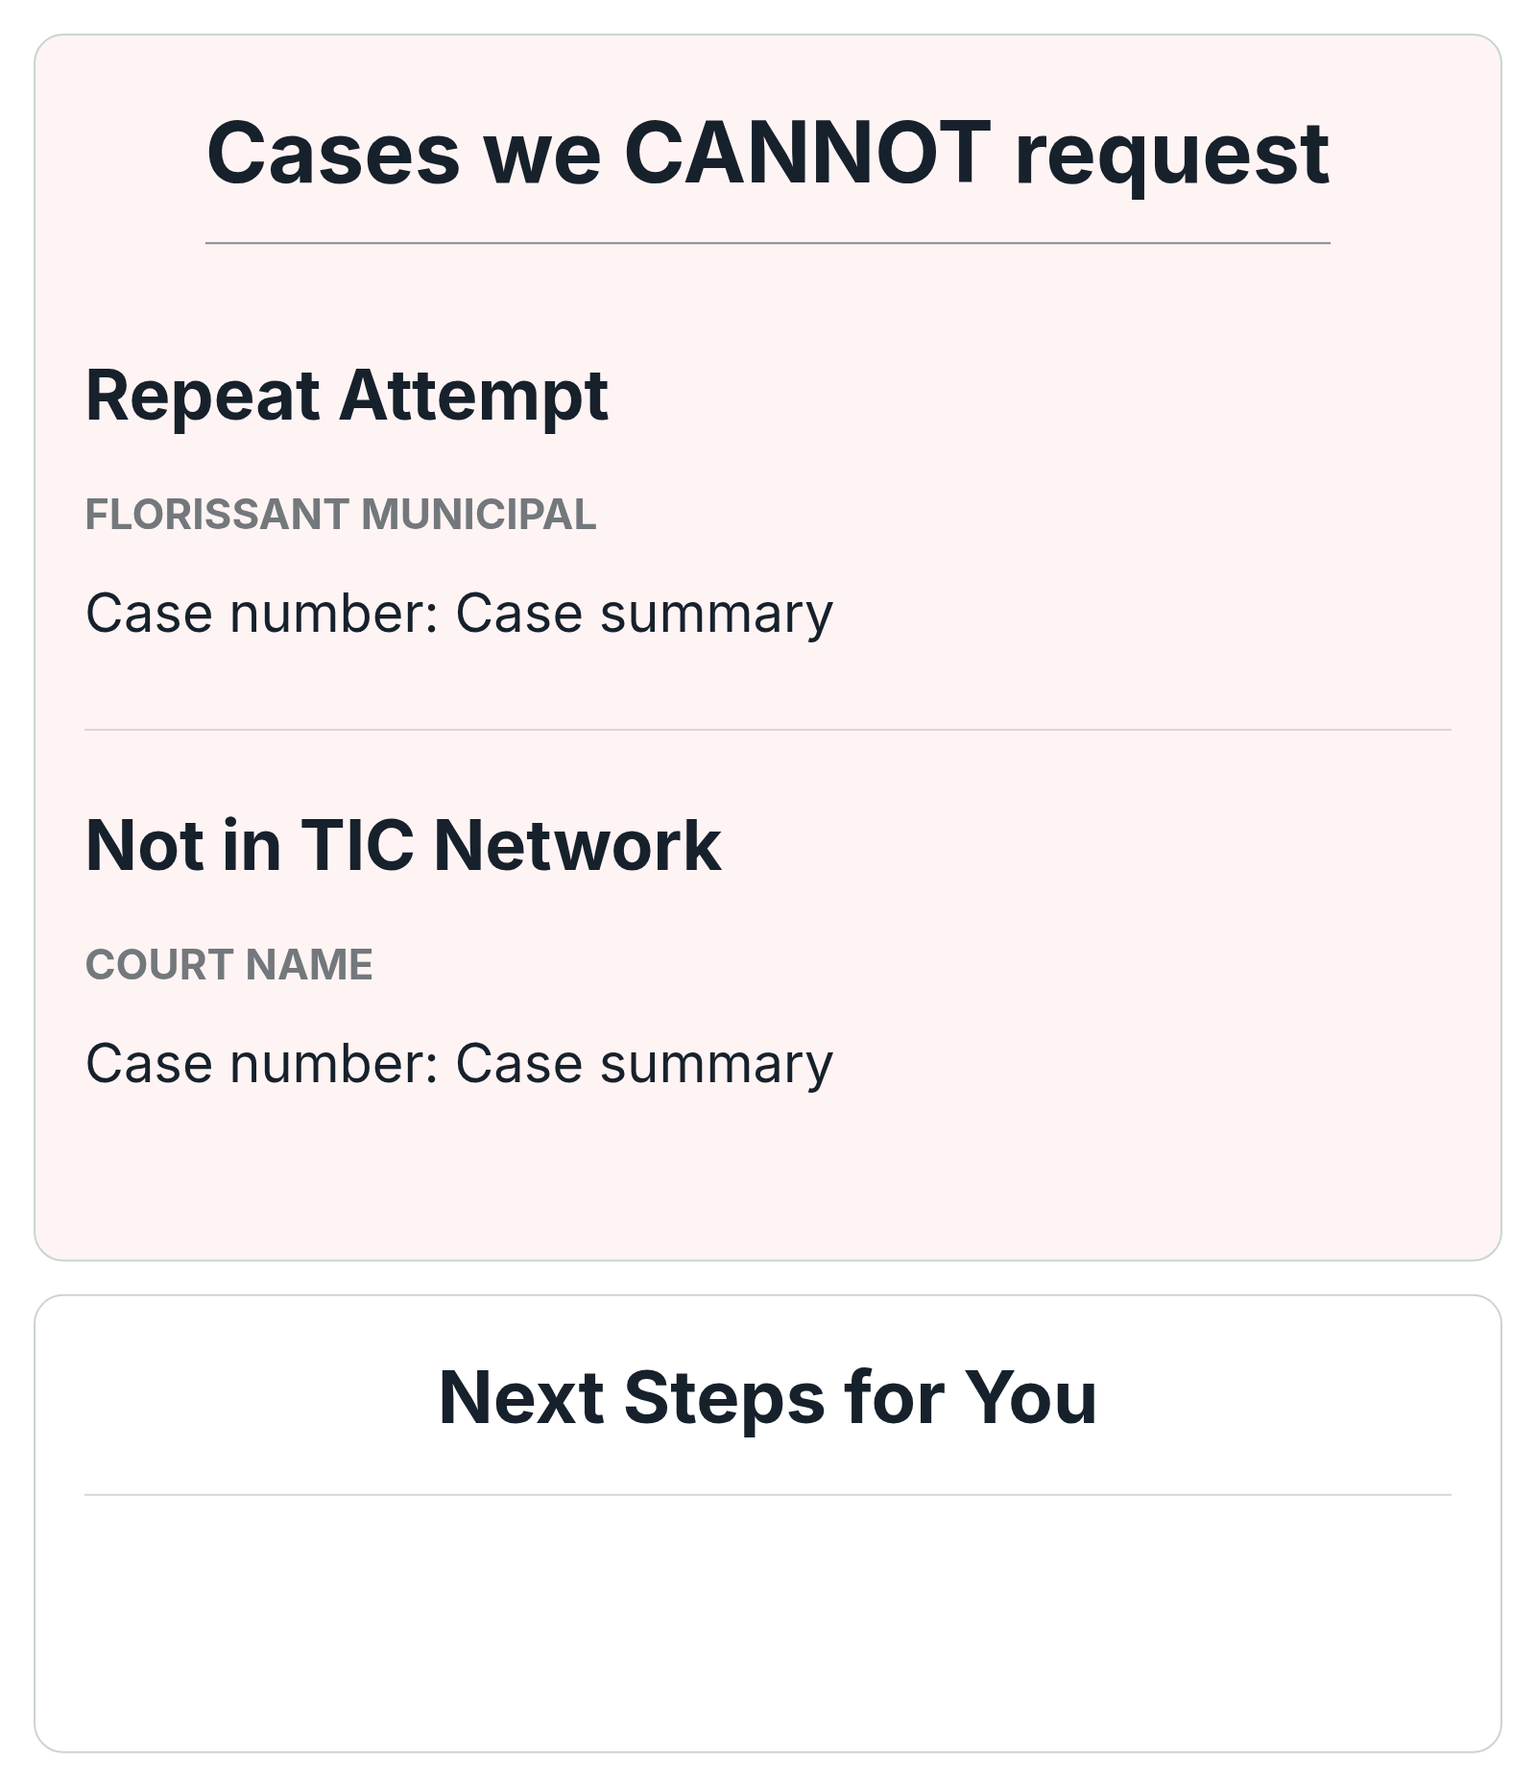
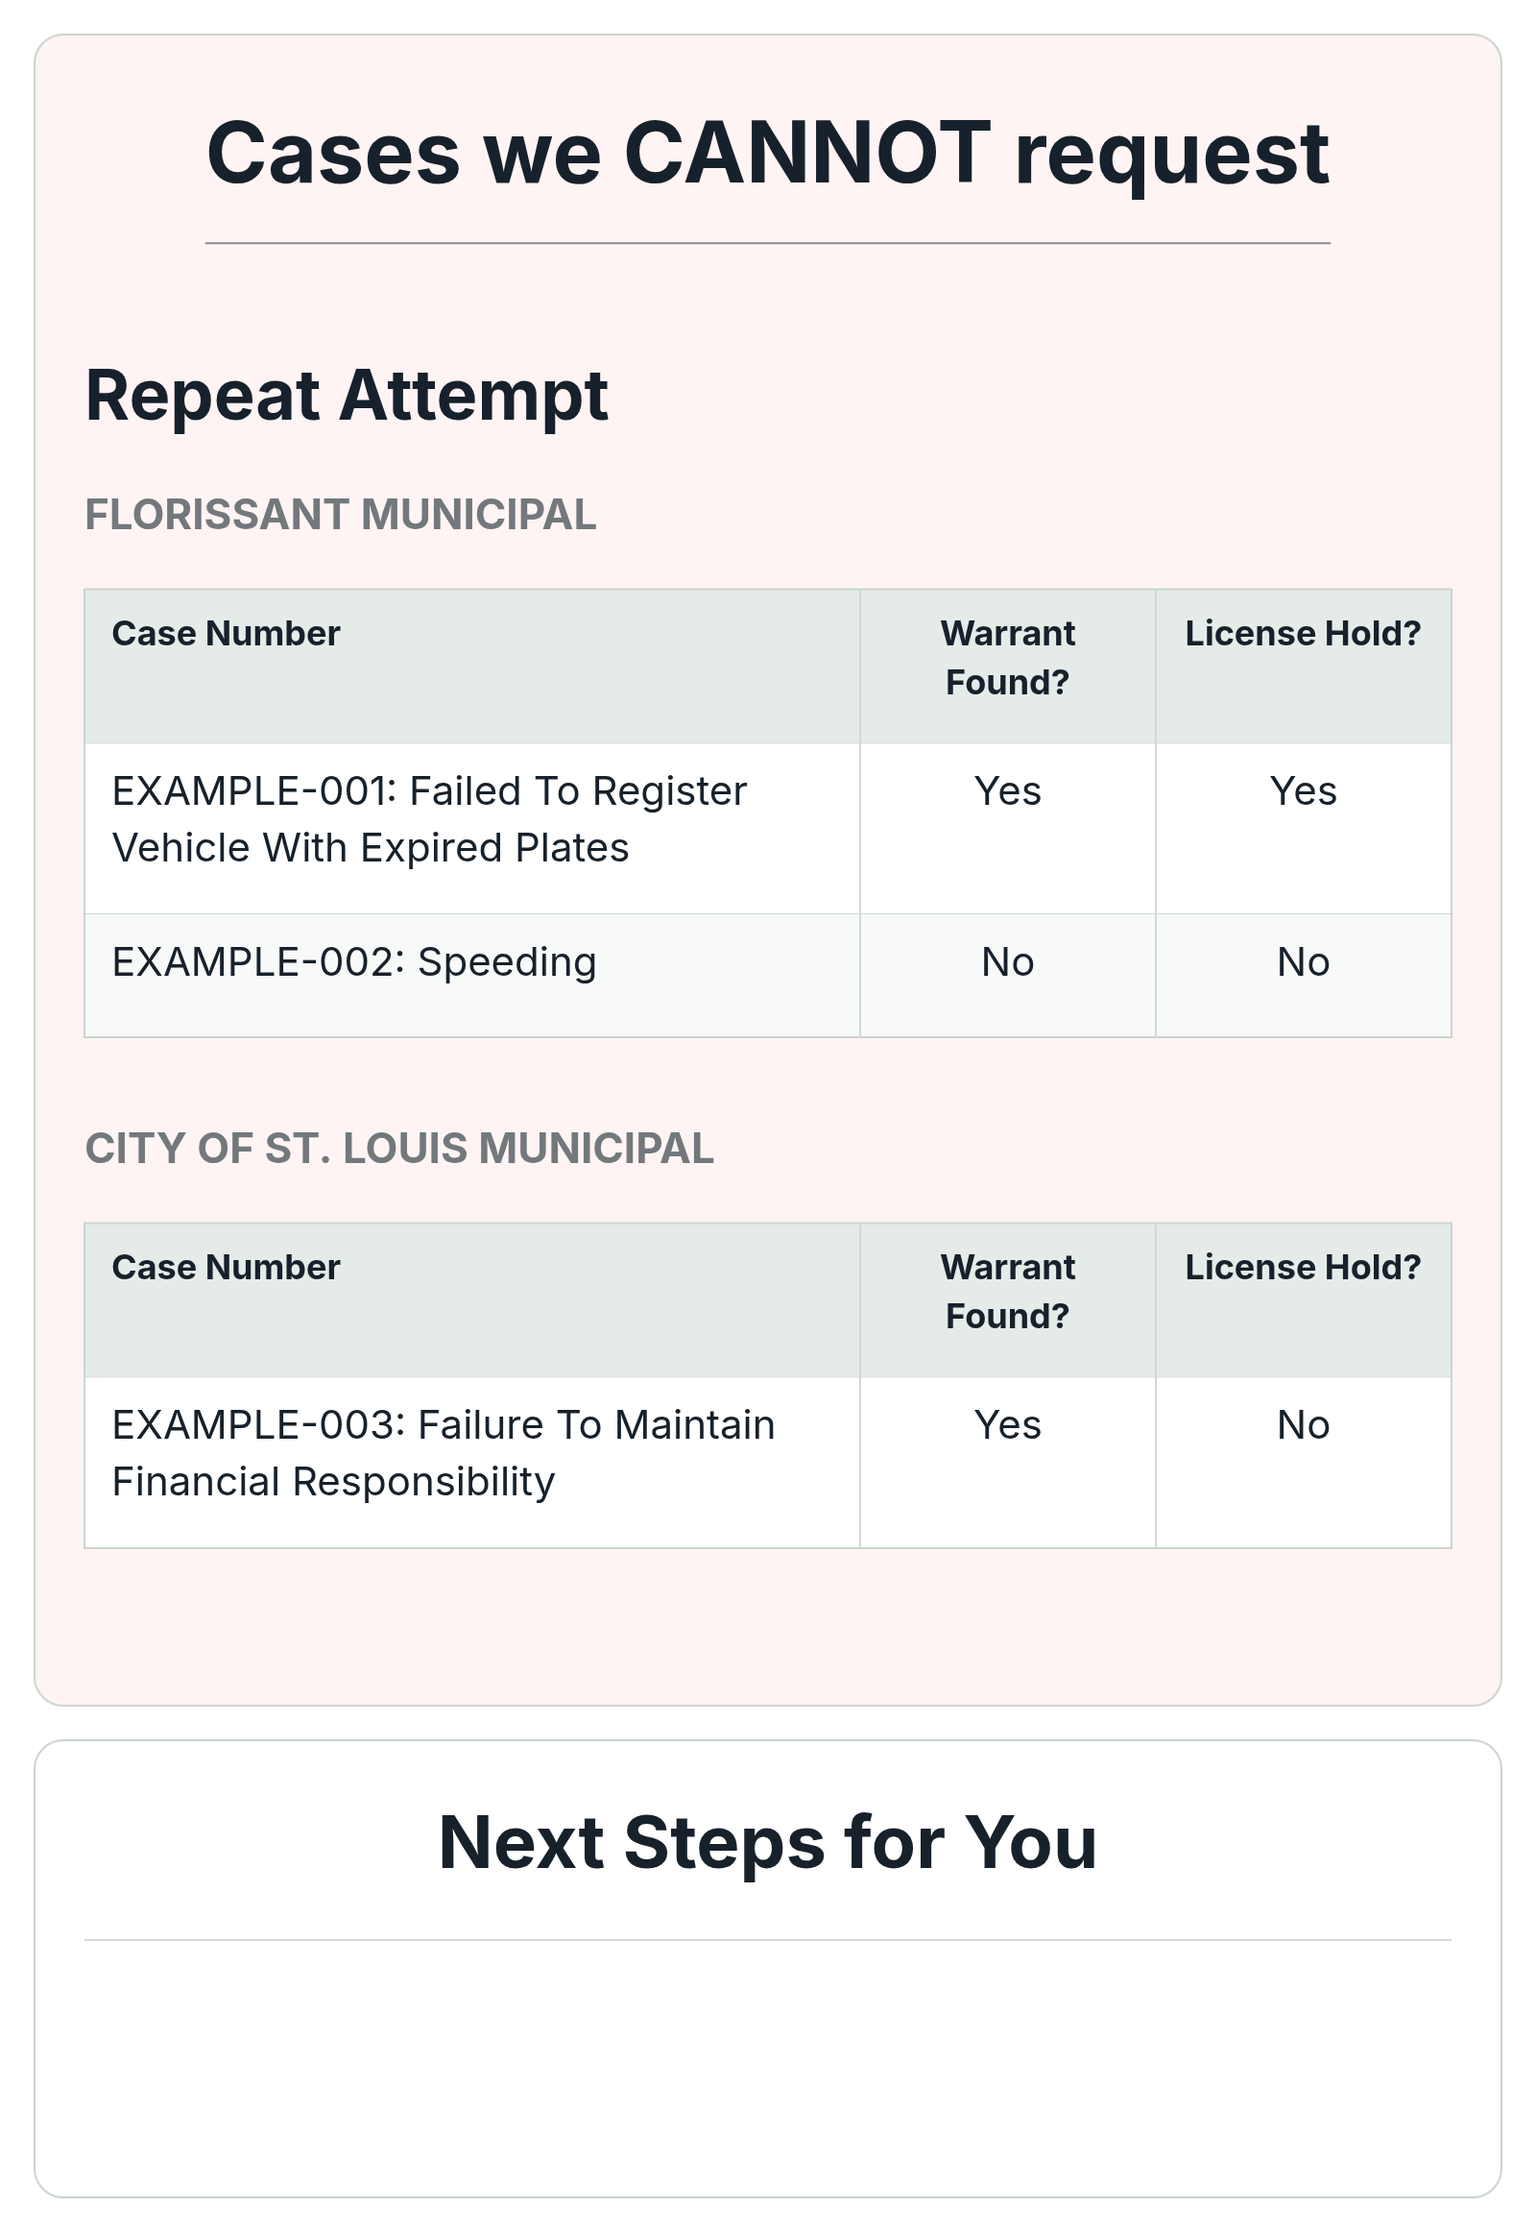
Render infographic cases in court-grouped status tables

diff --git a/src/tampermonkey/17a-constructed-infographics.js b/src/tampermonkey/17a-constructed-infographics.js
@@ -45,21 +45,35 @@ function textBuilderInfographicSources() {
   }
   return sources;
 }
-function textBuilderInfographicTruncate(line) {
-  const colon = line.indexOf(':');
-  if (colon < 0) return line;
-  const tail = line.slice(colon + 1);
-  const status = /- (?:warrant|open \(no warrant found\))/i.exec(tail);
-  if (!status) return line;
-  const charge = tail.slice(0,status.index).trim();
-  const chars = Array.from(charge);
-  if (chars.length <= 12) return line;
-  return `${line.slice(0,colon + 1)} ${chars.slice(0,12).join('')}. . . ${tail.slice(status.index)}`;
-}
-function textBuilderInfographicRows(text,truncate) {
+function textBuilderInfographicRows(text) {
   return String(text || '').split(/\r?\n/).map(line => line.trim()).filter(line => line && !/^(?:-\s*){3,}$/.test(line))
-    .map(line => ({text:truncate ? textBuilderInfographicTruncate(line) : line,
-      court:!line.includes(':') && /(?:\bmunicipal\b|\bcircuit\b|\bcourt\b|\(\d{3}\)\s*\d{3}[- ]\d{4})/i.test(line)}));
+    .map(line => ({text:line,court:!line.includes(':') && /(?:\bmunicipal\b|\bcircuit\b|\bcourt\b|\(\d{3}\)\s*\d{3}[- ]\d{4})/i.test(line)}));
+}
+function textBuilderInfographicCaseEntry(line) {
+  const text = String(line || '').replace(/^\s*[-•]\s*/,'').trim();
+  if (!text.includes(':')) return null;
+  const open = /-\s*open\s*\(no warrant found\)/i.test(text);
+  const warrant = /-\s*warrant\b/i.test(text);
+  const status = /\s*-\s*(?:open\s*\(no warrant found\)|warrant\b)/i.exec(text);
+  let label = status ? text.slice(0,status.index) : text;
+  label = label.replace(/\s*(?:[-–—,;]\s*)?hold placed on license\b.*$/i,'').trim();
+  return {label,warrant:open ? 'No' : warrant ? 'Yes' : '—',license:/hold placed on license/i.test(text) ? 'Yes' : 'No'};
+}
+function textBuilderInfographicCourtGroups(text) {
+  const groups = [];
+  let current = null;
+  for (const row of textBuilderInfographicRows(text)) {
+    if (row.court) {
+      const court = row.text.toUpperCase();
+      current = groups.find(group => group.court === court);
+      if (!current) {current = {court,entries:[],notes:[]};groups.push(current);}
+    } else {
+      if (!current) {current = {court:'',entries:[],notes:[]};groups.push(current);}
+      const entry = textBuilderInfographicCaseEntry(row.text);
+      if (entry) current.entries.push(entry); else current.notes.push(row.text);
+    }
+  }
+  return groups;
 }
 // SVG presentation attributes lose to host-page CSS. Lock typography on text,
 // tspans and inline entry fields so preview measurements match Canvas exports.
@@ -92,7 +106,7 @@ function textBuilderInfographicLines(box,measure) {
 }
 function textBuilderInfographicBoxHeight(box,measure) {return Math.max(1,textBuilderInfographicLines(box,measure).length) * box.size * 1.4;}
 function textBuilderInfographicModel(source,measure) {
-  const model = {type:source.type,width:800,height:1000,caseBottom:620,boxes:[],sectionRules:[]};
+  const model = {type:source.type,width:800,height:1000,caseBottom:620,boxes:[],sectionRules:[],tables:[]};
   let y = 60;
   const add = (text,size,bold,kind='case') => {
     const width = kind === 'step' ? 712 : Math.min(712,Math.max(160,measure(text,size,bold)+8));
@@ -106,14 +120,16 @@ function textBuilderInfographicModel(source,measure) {
   for (const [index,section] of source.sections.entries()) {
     if (index > 0) {model.sectionRules.push(y);y += 44;}
     if (section.title) add(section.title,36,true,'subheading');
-    const rows = textBuilderInfographicRows(section.text,source.type === 'ineligible');
-    const showCourts = rows.filter(row => row.court).length > 1;
-    let courtCount = 0;
-    for (const row of rows) {
-      // A single court needs no subdivision; multiple courts keep their Summary headings.
-      if (row.court && !showCourts && source.type === 'eligible') continue;
-      if (source.type === 'eligible' && row.court && courtCount++ > 0) {model.sectionRules.push(y);y += 44;}
-      add(row.court ? row.text.toUpperCase() : row.text,row.court ? 22 : 28,row.court,row.court ? 'court' : 'case');
+    for (const [groupIndex,group] of textBuilderInfographicCourtGroups(section.text).entries()) {
+      if (groupIndex > 0) y += 24;
+      if (group.court) add(group.court,22,true,'court');
+      for (const note of group.notes) add(note,24,false);
+      if (group.entries.length) {
+        const table = textBuilderInfographicTable(group.entries,y,measure,model.boxes.length);
+        model.tables.push(table);
+        model.boxes.push(...table.boxes);
+        y += table.height + 24;
+      }
     }
     y += 16;
   }
@@ -123,6 +139,44 @@ function textBuilderInfographicModel(source,measure) {
   add('',23,false,'step');
   textBuilderInfographicReflow(model,measure);
   return model;
+}
+function textBuilderInfographicTable(entries,y,measure,idStart) {
+  const widths = [404,154,154];
+  const table = {x:44,y,width:712,height:0,rows:[],boxes:[],widths};
+  const rows = [['Case Number','Warrant Found?','License Hold?'],...entries.map(entry => [entry.label,entry.warrant,entry.license])];
+  let rowY = y;
+  for (const [index,values] of rows.entries()) {
+    const header = index === 0;
+    let x = 44;
+    const cells = values.map((text,column) => {
+      const box = {id:`box-${idStart+table.boxes.length+column}`,text,x:x+14,y:rowY+15,width:widths[column]-28,size:header ? 18 : 21,bold:header,kind:header ? 'tableHeader' : 'tableCell',center:column>0};
+      x += widths[column];return box;
+    });
+    const height = Math.max(header ? 60 : 64,...cells.map(box => textBuilderInfographicBoxHeight(box,measure)+30));
+    table.rows.push({y:rowY,height,header,index});table.boxes.push(...cells);rowY += height;
+  }
+  table.height = rowY-y;
+  return table;
+}
+function textBuilderInfographicTableSvg(model) {
+  return (model.tables || []).map(table => {
+    const rows = table.rows.map(row => `<rect x="${table.x}" y="${row.y}" width="${table.width}" height="${row.height}" fill="${row.header ? '#e5ebe8' : row.index%2 ? '#ffffff' : '#f8faf9'}"/><line x1="${table.x}" x2="${table.x+table.width}" y1="${row.y+row.height}" y2="${row.y+row.height}" stroke="#d1d9d5"/>`).join('');
+    let x = table.x;
+    const columns = table.widths.slice(0,-1).map(width => {x+=width;return `<line x1="${x}" x2="${x}" y1="${table.y}" y2="${table.y+table.height}" stroke="#d1d9d5"/>`;}).join('');
+    return `<g data-info-table="true" role="table" aria-label="Cases by court">${rows}${columns}<rect x="${table.x}" y="${table.y}" width="${table.width}" height="${table.height}" fill="none" stroke="#cbd5ce"/></g>`;
+  }).join('');
+}
+function textBuilderInfographicDrawTables(ctx,model) {
+  for (const table of model.tables || []) {
+    ctx.lineWidth=1;
+    for (const row of table.rows) {
+      ctx.fillStyle=row.header ? '#e5ebe8' : row.index%2 ? '#ffffff' : '#f8faf9';ctx.fillRect(table.x,row.y,table.width,row.height);
+      ctx.strokeStyle='#d1d9d5';ctx.beginPath();ctx.moveTo(table.x,row.y+row.height);ctx.lineTo(table.x+table.width,row.y+row.height);ctx.stroke();
+    }
+    let x=table.x;
+    for (const width of table.widths.slice(0,-1)) {x+=width;ctx.beginPath();ctx.moveTo(x,table.y);ctx.lineTo(x,table.y+table.height);ctx.stroke();}
+    ctx.strokeStyle='#cbd5ce';ctx.strokeRect(table.x,table.y,table.width,table.height);
+  }
 }
 function textBuilderInfographicReflow(model,measure) {
   let y = model.caseBottom + 148;
@@ -167,12 +221,13 @@ function textBuilderInfographicSvg(model,editing=true) {
       const fieldHeight = Math.max(80,height);
       return `<foreignObject x="${box.x}" y="${box.y}" width="${box.width}" height="${fieldHeight}"><textarea xmlns="http://www.w3.org/1999/xhtml" class="moInfographicStep" data-info-step="${esc(box.id)}" aria-label="Next step ${model.boxes.filter(b => b.kind === 'step').indexOf(box)+1}" placeholder="Enter next step" style="${textBuilderInfographicFontStyle(box.size,false)}">${esc(box.text)}</textarea></foreignObject>`;
     }
-    const centered = ['heading','stepsHeading'].includes(box.kind);
+    const centered = box.center || ['heading','stepsHeading'].includes(box.kind);
+    const centerX = box.center ? box.width/2 : model.width/2-box.x;
     const style = textBuilderInfographicFontStyle(box.size,box.bold);
     return `<g transform="translate(${box.x},${box.y})">
-      <text style="${style}" font-family="TICInfographicInter, sans-serif" font-size="${box.size}" font-weight="${box.bold ? '700' : '400'}" fill="${box.kind === 'court' ? '#73787c' : '#17212b'}" ${centered ? 'text-anchor="middle"' : ''} dominant-baseline="text-before-edge">${lines.map((line,i) => `<tspan style="${style}" x="${centered ? model.width/2-box.x : 0}" y="${i*box.size*1.4}">${esc(line)}</tspan>`).join('')}</text></g>`;
+      <text aria-label="${esc(box.text)}" style="${style}" font-family="TICInfographicInter, sans-serif" font-size="${box.size}" font-weight="${box.bold ? '700' : '400'}" fill="${box.kind === 'court' ? '#73787c' : '#17212b'}" ${centered ? 'text-anchor="middle"' : ''} dominant-baseline="text-before-edge">${lines.map((line,i) => `<tspan style="${style}" x="${centered ? centerX : 0}" y="${i*box.size*1.4}">${esc(line)}</tspan>`).join('')}</text></g>`;
   }).join('');
-  return `<svg xmlns="http://www.w3.org/2000/svg" viewBox="0 0 ${model.width} ${model.height}" class="moInfographicSvg" aria-label="${model.type === 'eligible' ? 'Eligible' : 'Ineligible'} Constructed Infographic"><rect width="800" height="${model.height}" fill="white"/>${panel(18,model.caseBottom-18,model.type === 'eligible' ? '#eff9ef' : '#fff4f4')}${panel(stepsY,model.height-stepsY-18,'#ffffff')}${rules}${boxes}</svg>`;
+  return `<svg xmlns="http://www.w3.org/2000/svg" viewBox="0 0 ${model.width} ${model.height}" class="moInfographicSvg" aria-label="${model.type === 'eligible' ? 'Eligible' : 'Ineligible'} Constructed Infographic"><rect width="800" height="${model.height}" fill="white"/>${panel(18,model.caseBottom-18,model.type === 'eligible' ? '#eff9ef' : '#fff4f4')}${panel(stepsY,model.height-stepsY-18,'#ffffff')}${textBuilderInfographicTableSvg(model)}${rules}${boxes}</svg>`;
 }
 function textBuilderInfographicCard(source) {
   const draft = textBuilderInfographicDraft(source);
@@ -252,10 +307,11 @@ async function textBuilderInfographicBlob(model,mime) {
   const panel = (y,h,color) => {ctx.beginPath();ctx.roundRect(18,y,764,h,15);ctx.fillStyle=color;ctx.fill();ctx.strokeStyle='#cbd5ce';ctx.stroke();};
   panel(18,model.caseBottom-18,model.type==='eligible'?'#eff9ef':'#fff4f4');
   const stepsY=model.caseBottom+18;panel(stepsY,model.height-stepsY-18,'#ffffff');
+  textBuilderInfographicDrawTables(ctx,model);
   const measure=textBuilderInfographicMeasure();
   for(const line of textBuilderInfographicDecorations(model,measure)) {ctx.strokeStyle=line.color;ctx.beginPath();ctx.moveTo(line.x1,line.y);ctx.lineTo(line.x2,line.y);ctx.stroke();}
   ctx.textBaseline='top';ctx.fillStyle='#17212b';
-  for(const box of model.boxes) {ctx.font=textBuilderInfographicCanvasFont(box.size,box.bold);ctx.fillStyle=box.kind==='court'?'#73787c':'#17212b';ctx.textAlign=['heading','stepsHeading'].includes(box.kind)?'center':'left';textBuilderInfographicLines(box,measure).forEach((line,i)=>ctx.fillText(line,ctx.textAlign==='center'?model.width/2:box.x,box.y+i*box.size*1.4));}
+  for(const box of model.boxes) {ctx.font=textBuilderInfographicCanvasFont(box.size,box.bold);ctx.fillStyle=box.kind==='court'?'#73787c':'#17212b';ctx.textAlign=box.center || ['heading','stepsHeading'].includes(box.kind)?'center':'left';textBuilderInfographicLines(box,measure).forEach((line,i)=>ctx.fillText(line,ctx.textAlign==='center'?(box.center?box.x+box.width/2:model.width/2):box.x,box.y+i*box.size*1.4));}
   return new Promise((resolve,reject)=>canvas.toBlob(blob=>blob?resolve(blob):reject(new Error('Could not render image.')),mime,0.95));
 }
 async function textBuilderInfographicExport(model,action) {

diff --git a/src/tampermonkey/00-preamble.js b/src/tampermonkey/00-preamble.js
@@ -1,7 +1,7 @@
 // ==UserScript==
-// @name         ICBiNCn 11.10
+// @name         ICBiNCn 11.11
 // @namespace    http://tampermonkey.net/
-// @version      2026-11-10
+// @version      2026-11-11
 // @description  Background Case.net scraper using JSON/XHR endpoints. Navs to search results pages, pulls case data via POST requests, then writes to a persistent log for copying. Now with Track This Case.
 // @author       Mason Scott
 // @match        https://www.courts.mo.gov/casenet/*

diff --git a/docs/constructed-infographics.md b/docs/constructed-infographics.md
@@ -18,7 +18,9 @@ The eligible image contains “Cases we CAN request” and “Next Steps for TIC
 
 Both images have no surrounding editor headings or card frames, and both section headings are centered. Each case heading has a thin text-width underline. Each next-step heading has a full-width demarcation below it, without a direct text underline. Both layouts use larger bold headings, muted uppercase court labels, and fine separators between groups. The eligible case panel is pale green; the ineligible panel is pale blush.
 
-Images contain entered summaries rather than the message's added greeting, explanation, or closing. Only ineligible images shorten charges: charge text after the first colon and before `- warrant` or `- open (no warrant found)` is capped at 12 characters, followed by `. . .` if truncated. Case identifiers and status suffixes remain intact. The text message and entered summaries are not modified.
+Images contain entered summaries rather than the message's added greeting, explanation, or closing. Each court heading has its own table beneath it, including when there is only one court. Court groups retain first-appearance order from Summary; repeated headings within the same reason are merged into that court's table. Ineligible reason groups retain their existing order.
+
+The three table columns are **Case Number**, **Warrant Found?**, and **License Hold?**. Case Number contains the case number and charge text before the status suffix, without the bullet or license-hold annotation. Long text wraps, and row heights expand; the old 12-character charge cap no longer applies to either infographic. An entry containing `- open (no warrant found)` shows **No** for Warrant Found?, while `- warrant` shows **Yes**. An open marker takes precedence if both occur. A missing/unrecognized warrant status shows **—** rather than inventing a status. License Hold? shows **Yes** when `hold placed on license` occurs, otherwise **No**. Matching is case-insensitive. Unstructured notes without a case-number colon remain visible above the associated table. Original text-message summaries are not modified.
 
 ## Editing and exporting
 
@@ -30,7 +32,7 @@ Each image has an independent draft. Edits survive message rerendering, such as 
 
 ## Validation
 
-Run `node --test tests/*.test.cjs` for data routing, summary truncation, layout models, and existing behavior. Run `node tests/constructed-infographics.browser.cjs` with Playwright and Chromium installed for the mixed flow, direct next-step editing, fixed field positions, image encoding, download, clipboard, and panel checks. Set `INFOGRAPHIC_TEST_SCREENSHOT` to save an optional browser screenshot.
+Run `node --test tests/*.test.cjs` for data routing, table status parsing, court grouping, wrapping, layout models, and existing behavior. Run `node tests/constructed-infographics.browser.cjs` with Playwright and Chromium installed for the mixed flow, direct next-step editing, fixed field positions, image encoding, download, clipboard, and panel checks. Set `INFOGRAPHIC_TEST_SCREENSHOT` to save an optional browser screenshot.
 
 ## Bundled typeface
 

diff --git a/AGENTS.md b/AGENTS.md
@@ -13,8 +13,8 @@ Before making changes that visually alter Jotform table rows or columns, follow 
 
 ## Current userscript release
 
-- Version/date: `2026-11-10`
-- Userscript title: `ICBiNCn 11.10`
+- Version/date: `2026-11-11`
+- Userscript title: `ICBiNCn 11.11`
 
 ## GitHub delivery workflow
 
